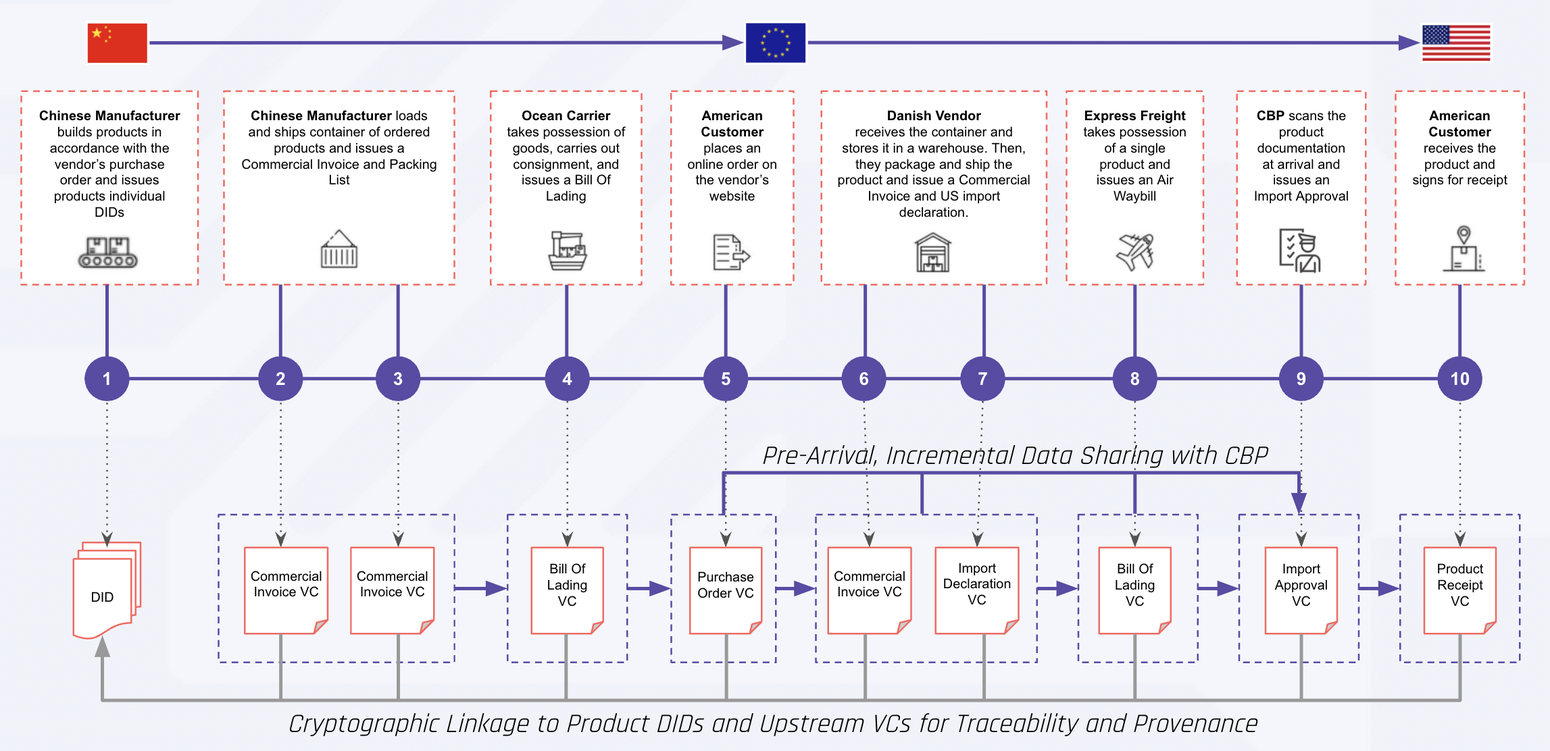
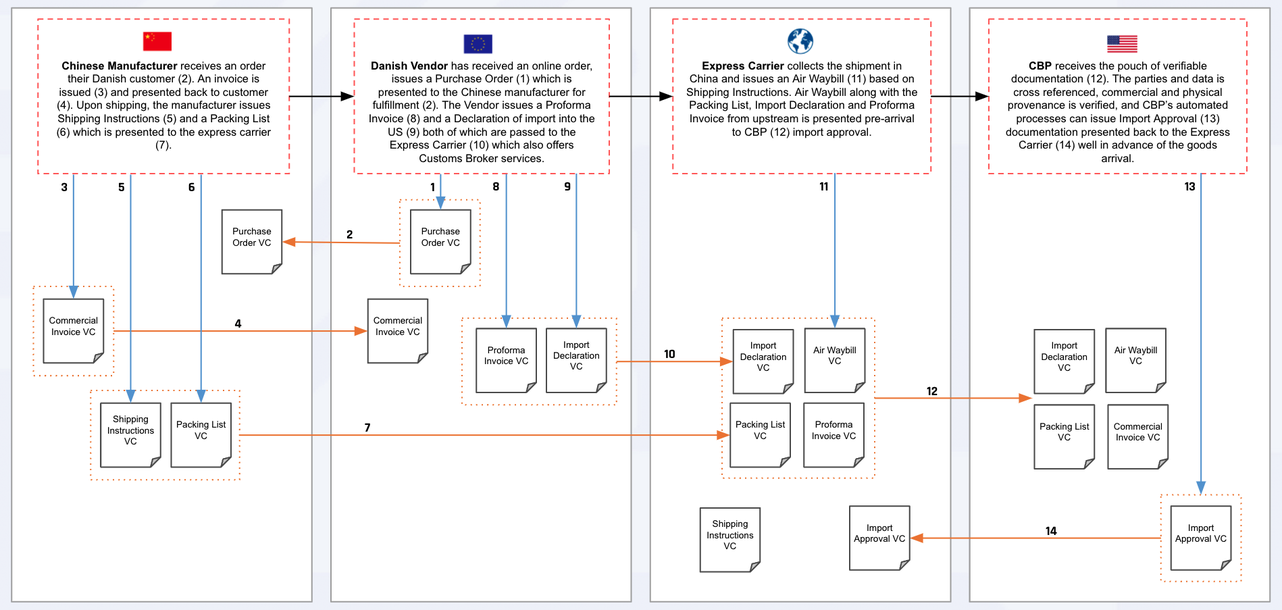
deploy: 290d83827e587ee9b95715a0bdc30694b4991491

Changed region(s): [[0.0, 0.0, 0.9947, 0.9922], [0.5285, 0.3721, 0.5595, 0.4031], [0.4041, 0.6202, 0.4352, 0.6512]]

diff --git a/testsuite/index.html b/testsuite/index.html
@@ -1,5 +1,5 @@
[1 lines of base64/hex data omitted]
-    "{\"numFailedTestSuites\":0,\"numFailedTests\":0,\"numPassedTestSuites\":4,\"numPassedTests\":18,\"numPendingTestSuites\":0,\"numPendingTests\":0,\"numRuntimeErrorTestSuites\":0,\"numTodoTests\":0,\"numTotalTestSuites\":4,\"numTotalTests\":18,\"openHandles\":[],\"snapshot\":{\"added\":0,\"didUpdate\":false,\"failure\":false,\"filesAdded\":0,\"filesRemoved\":0,\"filesRemovedList\":[],\"filesUnmatched\":0,\"filesUpdated\":0,\"matched\":0,\"total\":0,\"unchecked\":0,\"uncheckedKeysByFile\":[],\"unmatched\":0,\"updated\":0},\"startTime\":1644346553963,\"success\":false,\"testResults\":[{\"leaks\":false,\"numFailingTests\":0,\"numPassingTests\":5,\"numPendingTests\":0,\"numTodoTests\":0,\"openHandles\":[],\"perfStats\":{\"end\":1644346570599,\"runtime\":16597,\"slow\":true,\"start\":1644346554002},\"skipped\":false,\"snapshot\":{\"added\":0,\"fileDeleted\":false,\"matched\":0,\"unchecked\":0,\"uncheckedKeys\":[],\"unmatched\":0,\"updated\":0},\"testFilePath\":\"/home/runner/work/traceability-vocab/traceability-vocab/packages/traceability-schemas/__tests__/schemas-sanity.test.js\",\"testResults\":[{\"ancestorTitles\":[],\"duration\":3,\"failureDetails\":[],\"failureMessages\":[],\"fullName\":\"schemas is an array\",\"invocations\":1,\"location\":null,\"numPassingAsserts\":0,\"status\":\"passed\",\"title\":\"schemas is an array\"},{\"ancestorTitles\":[],\"duration\":0,\"failureDetails\":[],\"failureMessages\":[],\"fullName\":\"all schemas have an example\",\"invocations\":1,\"location\":null,\"numPassingAsserts\":0,\"status\":\"passed\",\"title\":\"all schemas have an example\"},{\"ancestorTitles\":[],\"duration\":3,\"failureDetails\":[],\"failureMessages\":[],\"fullName\":\"all schemas examples are valid json\",\"invocations\":1,\"location\":null,\"numPassingAsserts\":0,\"status\":\"passed\",\"title\":\"all schemas examples are valid json\"},{\"ancestorTitles\":[],\"duration\":1021,\"failureDetails\":[],\"failureMessages\":[],\"fullName\":\"all schemas examples are valid\",\"invocations\":1,\"location\":null,\"numPassingAsserts\":0,\"status\":\"passed\",\"title\":\"all schemas examples are valid\"},{\"ancestorTitles\":[],\"duration\":13347,\"failureDetails\":[],\"failureMessages\":[],\"fullName\":\"all schemas examples are valid json-ld\",\"invocations\":1,\"location\":null,\"numPassingAsserts\":0,\"status\":\"passed\",\"title\":\"all schemas examples are valid json-ld\"}],\"failureMessage\":null},{\"leaks\":false,\"numFailingTests\":0,\"numPassingTests\":11,\"numPendingTests\":0,\"numTodoTests\":0,\"openHandles\":[],\"perfStats\":{\"end\":1644346575854,\"runtime\":5093,\"slow\":true,\"start\":1644346570761},\"skipped\":false,\"snapshot\":{\"added\":0,\"fileDeleted\":false,\"matched\":0,\"unchecked\":0,\"uncheckedKeys\":[],\"unmatched\":0,\"updated\":0},\"testFilePath\":\"/home/runner/work/traceability-vocab/traceability-vocab/packages/traceability-schemas/__tests__/credentials.sanity.test.js\",\"testResults\":[{\"ancestorTitles\":[\"Verifiable Credentials\"],\"duration\":460,\"failureDetails\":[],\"failureMessages\":[],\"fullName\":\"Verifiable Credentials VerifiableBusinessCard\",\"invocations\":1,\"location\":null,\"numPassingAsserts\":0,\"status\":\"passed\",\"title\":\"VerifiableBusinessCard\"},{\"ancestorTitles\":[\"Verifiable Credentials\"],\"duration\":158,\"failureDetails\":[],\"failureMessages\":[],\"fullName\":\"Verifiable Credentials USMCACertificateOfOrigin\",\"invocations\":1,\"location\":null,\"numPassingAsserts\":0,\"status\":\"passed\",\"title\":\"USMCACertificateOfOrigin\"},{\"ancestorTitles\":[\"Verifiable Credentials\"],\"duration\":715,\"failureDetails\":[],\"failureMessages\":[],\"fullName\":\"Verifiable Credentials MillTestReportCertificate\",\"invocations\":1,\"location\":null,\"numPassingAsserts\":0,\"status\":\"passed\",\"title\":\"MillTestReportCertificate\"},{\"ancestorTitles\":[\"Verifiable Credentials\"],\"duration\":147,\"failureDetails\":[],\"failureMessages\":[],\"fullName\":\"Verifiable Credentials FreightManifestCertificate\",\"invocations\":1,\"location\":null,\"numPassingAsserts\":0,\"status\":\"passed\",\"title\":\"FreightManifestCertificate\"},{\"ancestorTitles\":[\"Verifiable Credentials\"],\"duration\":166,\"failureDetails\":[],\"failureMessages\":[],\"fullName\":\"Verifiable Credentials DCSATransportDocumentCertificate\",\"invocations\":1,\"location\":null,\"numPassingAsserts\":0,\"status\":\"passed\",\"title\":\"DCSATransportDocumentCertificate\"},{\"ancestorTitles\":[\"Verifiable Credentials\"],\"duration\":142,\"failureDetails\":[],\"failureMessages\":[],\"fullName\":\"Verifiable Credentials DCSAShippingInstructionCertificate\",\"invocations\":1,\"location\":null,\"numPassingAsserts\":0,\"status\":\"passed\",\"title\":\"DCSAShippingInstructionCertificate\"},{\"ancestorTitles\":[\"Verifiable Credentials\"],\"duration\":565,\"failureDetails\":[],\"failureMessages\":[],\"fullName\":\"Verifiable Credentials CommercialInvoiceCertificate\",\"invocations\":1,\"location\":null,\"numPassingAsserts\":0,\"status\":\"passed\",\"title\":\"CommercialInvoiceCertificate\"},{\"ancestorTitles\":[\"Verifiable Credentials\"],\"duration\":144,\"failureDetails\":[],\"failureMessages\":[],\"fullName\":\"Verifiable Credentials CTPATCertificate\",\"invocations\":1,\"location\":null,\"numPassingAsserts\":0,\"status\":\"passed\",\"title\":\"CTPATCertificate\"},{\"ancestorTitles\":[\"Verifiable Credentials\"],\"duration\":362,\"failureDetails\":[],\"failureMessages\":[],\"fullName\":\"Verifiable Credentials BillOfLadingCertificate\",\"invocations\":1,\"location\":null,\"numPassingAsserts\":0,\"status\":\"passed\",\"title\":\"BillOfLadingCertificate\"},{\"ancestorTitles\":[\"Verifiable Credentials\"],\"duration\":455,\"failureDetails\":[],\"failureMessages\":[],\"fullName\":\"Verifiable Credentials VerifiableCredential\",\"invocations\":1,\"location\":null,\"numPassingAsserts\":0,\"status\":\"passed\",\"title\":\"VerifiableCredential\"},{\"ancestorTitles\":[\"Verifiable Credentials\"],\"duration\":505,\"failureDetails\":[],\"failureMessages\":[],\"fullName\":\"Verifiable Credentials VerifiableCredential\",\"invocations\":1,\"location\":null,\"numPassingAsserts\":0,\"status\":\"passed\",\"title\":\"VerifiableCredential\"}],\"failureMessage\":null},{\"leaks\":false,\"numFailingTests\":0,\"numPassingTests\":1,\"numPendingTests\":0,\"numTodoTests\":0,\"openHandles\":[],\"perfStats\":{\"end\":1644346577266,\"runtime\":1314,\"slow\":false,\"start\":1644346575952},\"skipped\":false,\"snapshot\":{\"added\":0,\"fileDeleted\":false,\"matched\":0,\"unchecked\":0,\"uncheckedKeys\":[],\"unmatched\":0,\"updated\":0},\"testFilePath\":\"/home/runner/work/traceability-vocab/traceability-vocab/packages/traceability-schemas/__tests__/jsonld-sanity.test.js\",\"testResults\":[{\"ancestorTitles\":[],\"duration\":8,\"failureDetails\":[],\"failureMessages\":[],\"fullName\":\"should error when no @context is present\",\"invocations\":1,\"location\":null,\"numPassingAsserts\":0,\"status\":\"passed\",\"title\":\"should error when no @context is present\"}],\"failureMessage\":null},{\"leaks\":false,\"numFailingTests\":0,\"numPassingTests\":1,\"numPendingTests\":0,\"numTodoTests\":0,\"openHandles\":[],\"perfStats\":{\"end\":1644346577890,\"runtime\":619,\"slow\":false,\"start\":1644346577271},\"skipped\":false,\"snapshot\":{\"added\":0,\"fileDeleted\":false,\"matched\":0,\"unchecked\":0,\"uncheckedKeys\":[],\"unmatched\":0,\"updated\":0},\"testFilePath\":\"/home/runner/work/traceability-vocab/traceability-vocab/packages/traceability-schemas/__tests__/yaml-schema.sanity.test.js\",\"testResults\":[{\"ancestorTitles\":[],\"duration\":300,\"failureDetails\":[],\"failureMessages\":[],\"fullName\":\"can validate schema with loader.\",\"invocations\":1,\"location\":null,\"numPassingAsserts\":0,\"status\":\"passed\",\"title\":\"can validate schema with loader.\"}],\"failureMessage\":null}],\"wasInterrupted\":false,\"config\":{\"bail\":0,\"changedFilesWithAncestor\":false,\"collectCoverage\":false,\"collectCoverageFrom\":[],\"coverageDirectory\":\"/home/runner/work/traceability-vocab/traceability-vocab/packages/traceability-schemas/coverage\",\"coverageProvider\":\"babel\",\"coverageReporters\":[\"json\",\"text\",\"lcov\",\"clover\"],\"detectLeaks\":false,\"detectOpenHandles\":false,\"errorOnDeprecated\":false,\"expand\":false,\"findRelatedTests\":false,\"forceExit\":false,\"json\":false,\"lastCommit\":false,\"listTests\":false,\"logHeapUsage\":false,\"maxConcurrency\":5,\"maxWorkers\":1,\"noStackTrace\":false,\"nonFlagArgs\":[],\"notify\":false,\"notifyMode\":\"failure-change\",\"onlyChanged\":false,\"onlyFailures\":false,\"passWithNoTests\":false,\"projects\":[],\"reporters\":[[\"default\",{}],[\"/home/runner/work/traceability-vocab/traceability-vocab/packages/traceability-schemas/node_modules/jest-html-reporters/index.js\",{\"pageTitle\":\"Traceability Vocabulary Test Suite\",\"publicPath\":\"../../docs/testsuite\",\"filename\":\"index.html\",\"expand\":true}]],\"rootDir\":\"/home/runner/work/traceability-vocab/traceability-vocab/packages/traceability-schemas\",\"runTestsByPath\":false,\"skipFilter\":false,\"testFailureExitCode\":1,\"testPathPattern\":\"\",\"testSequencer\":\"/home/runner/work/traceability-vocab/traceability-vocab/packages/traceability-schemas/node_modules/@jest/test-sequencer/build/index.js\",\"updateSnapshot\":\"new\",\"useStderr\":false,\"watch\":false,\"watchAll\":false,\"watchman\":true},\"endTime\":1644346577906,\"_reporterOptions\":{\"publicPath\":\"../../docs/testsuite\",\"filename\":\"index.html\",\"expand\":true,\"pageTitle\":\"Traceability Vocabulary Test Suite\",\"hideIcon\":false,\"testCommand\":\"npx jest\",\"openReport\":false,\"multipleReportsUnitePath\":\"\",\"failureMessageOnly\":false,\"enableMergeData\":false,\"dataMergeLevel\":1},\"attachInfos\":{}}"
+    "{\"numFailedTestSuites\":0,\"numFailedTests\":0,\"numPassedTestSuites\":4,\"numPassedTests\":18,\"numPendingTestSuites\":0,\"numPendingTests\":0,\"numRuntimeErrorTestSuites\":0,\"numTodoTests\":0,\"numTotalTestSuites\":4,\"numTotalTests\":18,\"openHandles\":[],\"snapshot\":{\"added\":0,\"didUpdate\":false,\"failure\":false,\"filesAdded\":0,\"filesRemoved\":0,\"filesRemovedList\":[],\"filesUnmatched\":0,\"filesUpdated\":0,\"matched\":0,\"total\":0,\"unchecked\":0,\"uncheckedKeysByFile\":[],\"unmatched\":0,\"updated\":0},\"startTime\":1645556321695,\"success\":false,\"testResults\":[{\"leaks\":false,\"numFailingTests\":0,\"numPassingTests\":5,\"numPendingTests\":0,\"numTodoTests\":0,\"openHandles\":[],\"perfStats\":{\"end\":1645556340123,\"runtime\":18384,\"slow\":true,\"start\":1645556321739},\"skipped\":false,\"snapshot\":{\"added\":0,\"fileDeleted\":false,\"matched\":0,\"unchecked\":0,\"uncheckedKeys\":[],\"unmatched\":0,\"updated\":0},\"testFilePath\":\"/home/runner/work/traceability-vocab/traceability-vocab/packages/traceability-schemas/__tests__/schemas-sanity.test.js\",\"testResults\":[{\"ancestorTitles\":[],\"duration\":3,\"failureDetails\":[],\"failureMessages\":[],\"fullName\":\"schemas is an array\",\"invocations\":1,\"location\":null,\"numPassingAsserts\":0,\"status\":\"passed\",\"title\":\"schemas is an array\"},{\"ancestorTitles\":[],\"duration\":0,\"failureDetails\":[],\"failureMessages\":[],\"fullName\":\"all schemas have an example\",\"invocations\":1,\"location\":null,\"numPassingAsserts\":0,\"status\":\"passed\",\"title\":\"all schemas have an example\"},{\"ancestorTitles\":[],\"duration\":3,\"failureDetails\":[],\"failureMessages\":[],\"fullName\":\"all schemas examples are valid json\",\"invocations\":1,\"location\":null,\"numPassingAsserts\":0,\"status\":\"passed\",\"title\":\"all schemas examples are valid json\"},{\"ancestorTitles\":[],\"duration\":1139,\"failureDetails\":[],\"failureMessages\":[],\"fullName\":\"all schemas examples are valid\",\"invocations\":1,\"location\":null,\"numPassingAsserts\":0,\"status\":\"passed\",\"title\":\"all schemas examples are valid\"},{\"ancestorTitles\":[],\"duration\":14818,\"failureDetails\":[],\"failureMessages\":[],\"fullName\":\"all schemas examples are valid json-ld\",\"invocations\":1,\"location\":null,\"numPassingAsserts\":0,\"status\":\"passed\",\"title\":\"all schemas examples are valid json-ld\"}],\"failureMessage\":null},{\"leaks\":false,\"numFailingTests\":0,\"numPassingTests\":11,\"numPendingTests\":0,\"numTodoTests\":0,\"openHandles\":[],\"perfStats\":{\"end\":1645556345981,\"runtime\":5704,\"slow\":true,\"start\":1645556340277},\"skipped\":false,\"snapshot\":{\"added\":0,\"fileDeleted\":false,\"matched\":0,\"unchecked\":0,\"uncheckedKeys\":[],\"unmatched\":0,\"updated\":0},\"testFilePath\":\"/home/runner/work/traceability-vocab/traceability-vocab/packages/traceability-schemas/__tests__/credentials.sanity.test.js\",\"testResults\":[{\"ancestorTitles\":[\"Verifiable Credentials\"],\"duration\":535,\"failureDetails\":[],\"failureMessages\":[],\"fullName\":\"Verifiable Credentials VerifiableBusinessCard\",\"invocations\":1,\"location\":null,\"numPassingAsserts\":0,\"status\":\"passed\",\"title\":\"VerifiableBusinessCard\"},{\"ancestorTitles\":[\"Verifiable Credentials\"],\"duration\":189,\"failureDetails\":[],\"failureMessages\":[],\"fullName\":\"Verifiable Credentials USMCACertificateOfOrigin\",\"invocations\":1,\"location\":null,\"numPassingAsserts\":0,\"status\":\"passed\",\"title\":\"USMCACertificateOfOrigin\"},{\"ancestorTitles\":[\"Verifiable Credentials\"],\"duration\":867,\"failureDetails\":[],\"failureMessages\":[],\"fullName\":\"Verifiable Credentials MillTestReportCertificate\",\"invocations\":1,\"location\":null,\"numPassingAsserts\":0,\"status\":\"passed\",\"title\":\"MillTestReportCertificate\"},{\"ancestorTitles\":[\"Verifiable Credentials\"],\"duration\":174,\"failureDetails\":[],\"failureMessages\":[],\"fullName\":\"Verifiable Credentials FreightManifestCertificate\",\"invocations\":1,\"location\":null,\"numPassingAsserts\":0,\"status\":\"passed\",\"title\":\"FreightManifestCertificate\"},{\"ancestorTitles\":[\"Verifiable Credentials\"],\"duration\":188,\"failureDetails\":[],\"failureMessages\":[],\"fullName\":\"Verifiable Credentials DCSATransportDocumentCertificate\",\"invocations\":1,\"location\":null,\"numPassingAsserts\":0,\"status\":\"passed\",\"title\":\"DCSATransportDocumentCertificate\"},{\"ancestorTitles\":[\"Verifiable Credentials\"],\"duration\":161,\"failureDetails\":[],\"failureMessages\":[],\"fullName\":\"Verifiable Credentials DCSAShippingInstructionCertificate\",\"invocations\":1,\"location\":null,\"numPassingAsserts\":0,\"status\":\"passed\",\"title\":\"DCSAShippingInstructionCertificate\"},{\"ancestorTitles\":[\"Verifiable Credentials\"],\"duration\":532,\"failureDetails\":[],\"failureMessages\":[],\"fullName\":\"Verifiable Credentials CommercialInvoiceCertificate\",\"invocations\":1,\"location\":null,\"numPassingAsserts\":0,\"status\":\"passed\",\"title\":\"CommercialInvoiceCertificate\"},{\"ancestorTitles\":[\"Verifiable Credentials\"],\"duration\":181,\"failureDetails\":[],\"failureMessages\":[],\"fullName\":\"Verifiable Credentials CTPATCertificate\",\"invocations\":1,\"location\":null,\"numPassingAsserts\":0,\"status\":\"passed\",\"title\":\"CTPATCertificate\"},{\"ancestorTitles\":[\"Verifiable Credentials\"],\"duration\":447,\"failureDetails\":[],\"failureMessages\":[],\"fullName\":\"Verifiable Credentials BillOfLadingCertificate\",\"invocations\":1,\"location\":null,\"numPassingAsserts\":0,\"status\":\"passed\",\"title\":\"BillOfLadingCertificate\"},{\"ancestorTitles\":[\"Verifiable Credentials\"],\"duration\":511,\"failureDetails\":[],\"failureMessages\":[],\"fullName\":\"Verifiable Credentials VerifiableCredential\",\"invocations\":1,\"location\":null,\"numPassingAsserts\":0,\"status\":\"passed\",\"title\":\"VerifiableCredential\"},{\"ancestorTitles\":[\"Verifiable Credentials\"],\"duration\":388,\"failureDetails\":[],\"failureMessages\":[],\"fullName\":\"Verifiable Credentials VerifiableCredential\",\"invocations\":1,\"location\":null,\"numPassingAsserts\":0,\"status\":\"passed\",\"title\":\"VerifiableCredential\"}],\"failureMessage\":null},{\"leaks\":false,\"numFailingTests\":0,\"numPassingTests\":1,\"numPendingTests\":0,\"numTodoTests\":0,\"openHandles\":[],\"perfStats\":{\"end\":1645556347041,\"runtime\":1016,\"slow\":false,\"start\":1645556346025},\"skipped\":false,\"snapshot\":{\"added\":0,\"fileDeleted\":false,\"matched\":0,\"unchecked\":0,\"uncheckedKeys\":[],\"unmatched\":0,\"updated\":0},\"testFilePath\":\"/home/runner/work/traceability-vocab/traceability-vocab/packages/traceability-schemas/__tests__/jsonld-sanity.test.js\",\"testResults\":[{\"ancestorTitles\":[],\"duration\":11,\"failureDetails\":[],\"failureMessages\":[],\"fullName\":\"should error when no @context is present\",\"invocations\":1,\"location\":null,\"numPassingAsserts\":0,\"status\":\"passed\",\"title\":\"should error when no @context is present\"}],\"failureMessage\":null},{\"leaks\":false,\"numFailingTests\":0,\"numPassingTests\":1,\"numPendingTests\":0,\"numTodoTests\":0,\"openHandles\":[],\"perfStats\":{\"end\":1645556347763,\"runtime\":716,\"slow\":false,\"start\":1645556347047},\"skipped\":false,\"snapshot\":{\"added\":0,\"fileDeleted\":false,\"matched\":0,\"unchecked\":0,\"uncheckedKeys\":[],\"unmatched\":0,\"updated\":0},\"testFilePath\":\"/home/runner/work/traceability-vocab/traceability-vocab/packages/traceability-schemas/__tests__/yaml-schema.sanity.test.js\",\"testResults\":[{\"ancestorTitles\":[],\"duration\":364,\"failureDetails\":[],\"failureMessages\":[],\"fullName\":\"can validate schema with loader.\",\"invocations\":1,\"location\":null,\"numPassingAsserts\":0,\"status\":\"passed\",\"title\":\"can validate schema with loader.\"}],\"failureMessage\":null}],\"wasInterrupted\":false,\"config\":{\"bail\":0,\"changedFilesWithAncestor\":false,\"collectCoverage\":false,\"collectCoverageFrom\":[],\"coverageDirectory\":\"/home/runner/work/traceability-vocab/traceability-vocab/packages/traceability-schemas/coverage\",\"coverageProvider\":\"babel\",\"coverageReporters\":[\"json\",\"text\",\"lcov\",\"clover\"],\"detectLeaks\":false,\"detectOpenHandles\":false,\"errorOnDeprecated\":false,\"expand\":false,\"findRelatedTests\":false,\"forceExit\":false,\"json\":false,\"lastCommit\":false,\"listTests\":false,\"logHeapUsage\":false,\"maxConcurrency\":5,\"maxWorkers\":1,\"noStackTrace\":false,\"nonFlagArgs\":[],\"notify\":false,\"notifyMode\":\"failure-change\",\"onlyChanged\":false,\"onlyFailures\":false,\"passWithNoTests\":false,\"projects\":[],\"reporters\":[[\"default\",{}],[\"/home/runner/work/traceability-vocab/traceability-vocab/packages/traceability-schemas/node_modules/jest-html-reporters/index.js\",{\"pageTitle\":\"Traceability Vocabulary Test Suite\",\"publicPath\":\"../../docs/testsuite\",\"filename\":\"index.html\",\"expand\":true}]],\"rootDir\":\"/home/runner/work/traceability-vocab/traceability-vocab/packages/traceability-schemas\",\"runTestsByPath\":false,\"skipFilter\":false,\"testFailureExitCode\":1,\"testPathPattern\":\"\",\"testSequencer\":\"/home/runner/work/traceability-vocab/traceability-vocab/packages/traceability-schemas/node_modules/@jest/test-sequencer/build/index.js\",\"updateSnapshot\":\"new\",\"useStderr\":false,\"watch\":false,\"watchAll\":false,\"watchman\":true},\"endTime\":1645556347780,\"_reporterOptions\":{\"publicPath\":\"../../docs/testsuite\",\"filename\":\"index.html\",\"expand\":true,\"pageTitle\":\"Traceability Vocabulary Test Suite\",\"hideIcon\":false,\"testCommand\":\"npx jest\",\"openReport\":false,\"multipleReportsUnitePath\":\"\",\"failureMessageOnly\":false,\"enableMergeData\":false,\"dataMergeLevel\":1},\"attachInfos\":{}}"
   </textarea><script>/*! Copyright Harry All rights reserved. */!function(n){var r={};function o(t){if(r[t])return r[t].exports;var e=r[t]={i:t,l:!1,exports:{}};return n[t].call(e.exports,e,e.exports,o),e.l=!0,e.exports}o.m=n,o.c=r,o.d=function(t,e,n){o.o(t,e)||Object.defineProperty(t,e,{enumerable:!0,get:n})},o.r=function(t){"undefined"!=typeof Symbol&&Symbol.toStringTag&&Object.defineProperty(t,Symbol.toStringTag,{value:"Module"}),Object.defineProperty(t,"__esModule",{value:!0})},o.t=function(e,t){if(1&t&&(e=o(e)),8&t)return e;if(4&t&&"object"==typeof e&&e&&e.__esModule)return e;var n=Object.create(null);if(o.r(n),Object.defineProperty(n,"default",{enumerable:!0,value:e}),2&t&&"string"!=typeof e)for(var r in e)o.d(n,r,function(t){return e[t]}.bind(null,r));return n},o.n=function(t){var e=t&&t.__esModule?function(){return t.default}:function(){return t};return o.d(e,"a",e),e},o.o=function(t,e){return Object.prototype.hasOwnProperty.call(t,e)},o.p="",o(o.s=1103)}([function(t,e,n){"use strict";t.exports=n(447)},function(t,e,n){t.exports=n(905)()},function(t,e,n){var r;
 /*!
   Copyright (c) 2017 Jed Watson.

diff --git a/index.html b/index.html
@@ -356,33 +356,32 @@
               <figcaption>Sample Steel Workflow</figcaption>
             </figure>
             <p>
-              A new bridge in Pennsylvania is being built, but to construct it, the contractor needs steel beams, which requires their
-              preferred American steel beam manufacturer to purchase steel slabs.
+CTPAT issues a US Importer certificate (1) to the US Auto Manufacturer (2)
+and a Foreign Manufacturer certificate (3) to the Mexican Steel Mill (4). 
+            </p>
+            <p>              
+              US Auto Manufacturer Issues a Purchase Order (5) to their Mexican steel provider (6). 
             </p>
             <p>
-              A Mexican steel slab manufacturer has already produced these slabs, applied a decentralized identifier to each slab, and
-              sent the slabs for testing. During testing, an inspector certified that the physical and chemical properties of the steel
-              are up to international standards. The lab then issued a Mill Test Report VC which connects to the DIDs that the Mexican
-              steel slab manufacturer has applied to their product.
+Mexican Steel Mill processes the order issuing a Mill Test Report (7) and a
+Commercial Invoice (8) reflecting shipment goods which are passed to the US
+Customer (9). The Mexican Steel Mill also passes its CTPAT Foreign
+Manufacturer certificate. 
             </p>
             <p>              
-              With these quality checks complete, the Mexican manufacturer is ready for the American steel beam manufacturer's order.
-              The Mexican manufacturer completes the sale of the steel slabs and issues a Commercial Invoice VC that references the
-              Mill Test Report VC that was issued by the inspector. An American steel importer is now ready to take the steel slabs
-              over the US-Mexico border, so they pre-register their intent to import into the US as a VC, which connects to the
-              existing VCs and DIDs in the steel supply chain.
+SIMA issues a Steel Import Licence certificate (10) and passes it to
+US Auto (11) in response to their application. 
             </p>
             <p>              
-              The American importer is ready to enlist the help of their haulage carrier, who will load the steel slabs onto a vehicle
-              and issue a Bill of Lading VC. They'll work with a customs broker who organizes the increasingly long chain of
-              documentation associated with the steel slabs. The haulage carrier adds an Import Declaration to this VC chain, marking
-              another point along the steel's journey.
+US Auto Manufacturer obtains a Steel license (11) and issues a USMCA
+Certificate of Origin (12). The full set of six verifiable credentials
+are presented to CBP in advance of the import. 
             </p>
-            <p>              
-              Finally, the truck reaches the border. CBP scans the product documentation on arrival and can easily confirm the origin
-              and journey of our steel slabs. Satisfied that this steel is suitable for processing by the American steel beam
-              manufacturer, CBP issues an Import Arrival VC. The steel is hauled to the American steel beam manufacturer, who shapes
-              it into steel products that can be used to build our new bridge.
+            <p>
+CBP receives a Verifiable Presentation (12) from the US Auto importing
+steel, containing the two CTPAT certifications, USMCA Certificate of
+Origin, Steel Import License, Mill Test Report, and Commercial Invoice.
+Data is verified by CBP’s automated processes.
             </p>
 
             <h5>Featured Steel Credentials</h5>
@@ -428,7 +427,7 @@
             <dt><dfn>USMCA Certificate Of Origin</dfn></dt>
             <dd>
               <figure>
-                <img src="samples/fedex-usmca.png" alt="USMCA Certificate Of Origin" style="width:40%">
+                <img src="samples/usmca-form.png" alt="USMCA Certificate Of Origin" style="width:40%">
                 <figcaption>USMCA Certificate Of Origin</figcaption>
               </figure>
               <p>
@@ -557,46 +556,34 @@
             <figcaption>Sample E-Commerce Workflow</figcaption>
           </figure>
           <p>
-          A large and popular shoe manufacturer is ready to come out with their newest line of sneakers. First, they'll place an
-          order to a company in Anshan, China, to manufacture their new product line. Then, the Chinese company manufactures the
-          shoes to specification and issues a DID for each pair.
-        </p>
-        <p>          
-          Next, once the new sneakers have been packaged, the Chinese manufacturer ships them after issuing a Commercial Invoice
-          and Packing List. Both of these documents are issued using a DID created by and identifying the Chinese manufacturer in
-          addition to including DIDs that represent each set of sneakers.
-        </p>
-        <p>                    
-          Once safely packaged by the manufacturer, the ocean carrier takes the sneakers, carries out a consignment, and issues a
-          Bill of Lading VC. The ocean carrier can issue this VC with their own DID, adding them to this supply chain workflow. In
-          addition, the Bill of Lading can be linked to the Chinese manufacturer’s Commercial Invoice, Packing List, and the list
-          of DIDs associated with each set of sneakers.
-        </p>
-        <p>          
-          Our sneakers will find a home at a Danish vendor who specializes in Nike sneakers. They safely receive the container
-          from the ocean carrier and store the precious goods in a warehouse.
-        </p>
-        <p>          
-          The Danish sneaker vendor issues a Commercial Invoice and US Import Declaration as VCs, adding these documents to the
-          existing workflow in order to pack up the sneakers and hand them off to their express freight service.
-        </p>
-        <p>          
-          The express freight carrier takes the sneakers and issues an Air Waybill which connects the sneakers’ journey from
-          creation to importation. Each pair of sneakers lands safely, ready to be shipped to the American customers who purchased
-          them.
+            A Danish Vendor has received an online order, issues a Purchase Order (1) which is presented to the Chinese manufacturer for fulfillment (2). 
+          </p>
+        <p> 
+          The Chinese Manufacturer receives an order from their Danish customer (2). An invoice is issued (3) and presented back to customer (4). 
         </p>
         <p>
-          However, CBP first needs to verify the product documents at arrival and issue an Import Approval. This VC seamlessly
-          connects to the running collection of VCs, which track the sneakers journey in detail and provide CBP with unprecedented
-          visibility into the origin and authenticity of the sneakers. Using this new visibility, CBP is satisfied that the
-          products are legitimate and clears the product for shipment to the buyer in America.
+Upon shipping, the manufacturer issues Shipping Instructions (5) and a Packing
+List (6) which is presented to the express carrier (7).  
         </p>
-        <p>          
-          The buyer can trace back the origin of their sneakers using a digital paper trail of VCs. Using DIDs and VCs, CBP and
-          American consumers gain a much deeper insight into where their products come from, which helps reduce the likelihood of
-          knock-off products being passed off as the real thing.
+        <p>
+The Vendor issues a Pro Forma Invoice (8) and a Declaration of import into
+the US (9), both of which are passed to the Express Carrier (10), which also
+offers Customs Broker services.                     
         </p>
-        
+        <p>
+An Express Carrier collects the shipment in China and issues an Air
+Waybill (11) based on Shipping Instructions. 
+        </p>
+        <p>
+Air Waybill, along with the Packing List, Import Declaration, and Pro Forma
+Invoice from upstream, are presented pre-arrival to CBP (12) import approval. 
+        </p>
+        <p>
+CBP receives the pouch of verifiable documentation (12). The parties and data
+are cross referenced; commercial and physical provenance is verified; and CBP’s
+automated processes can issue Import Approval (13) documentation for presentation
+back to the Express Carrier (14) well in advance of the goods arrival.
+        </p>        
           <h5>Featured E-Commerce Credentials</h5>
           <dl>
             <dt><dfn>Purchase Order</dfn></dt>
